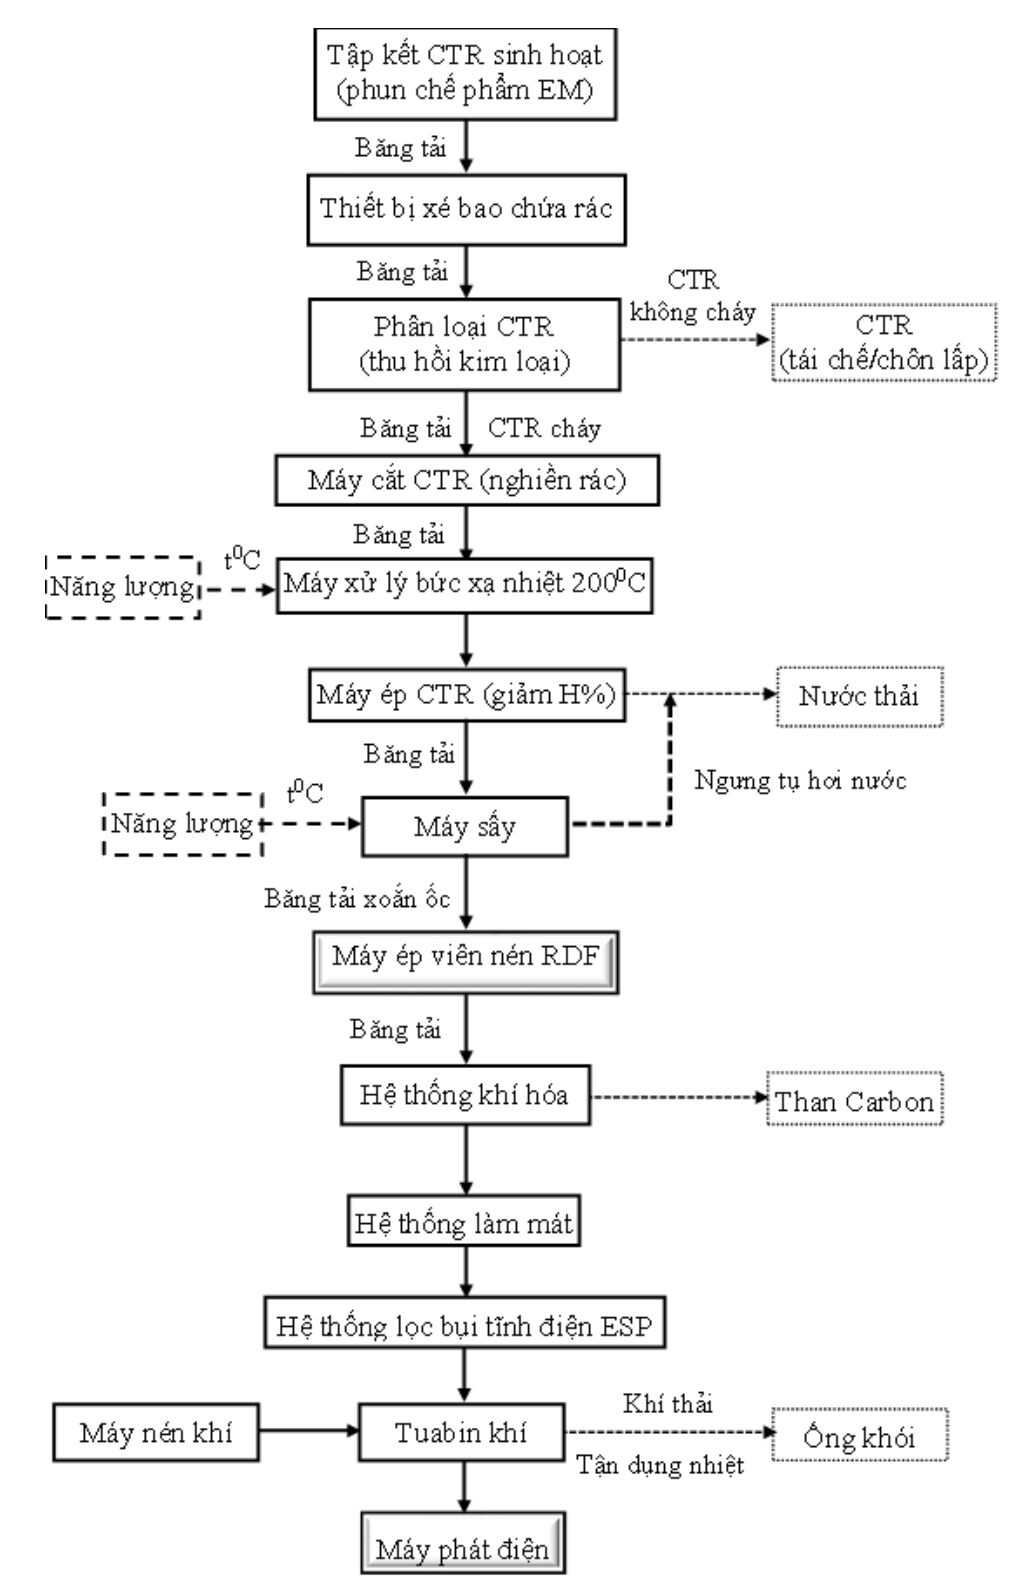
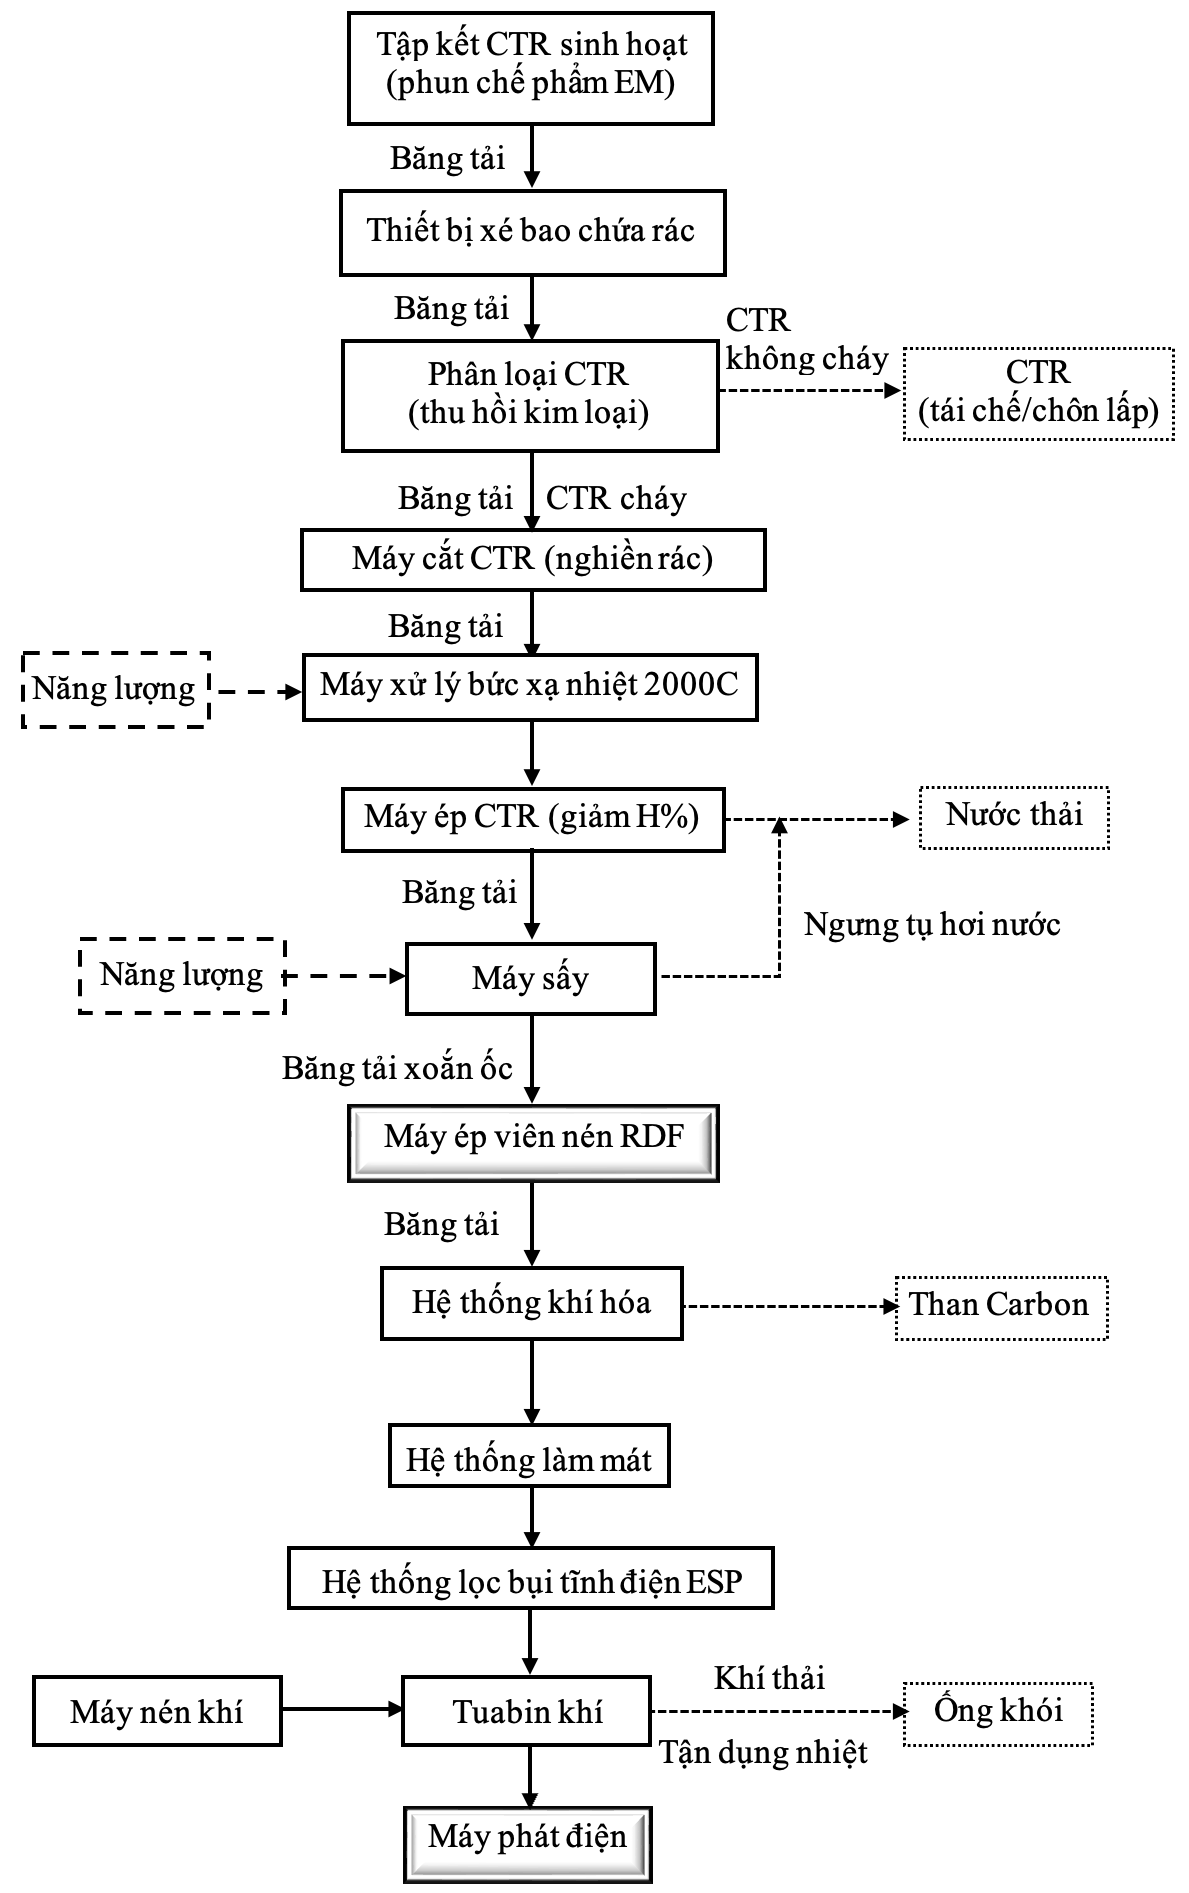
update 1906

Changed region(s): [[0.0, 0.0, 1.0, 1.0], [0.7337, 0.6771, 0.9477, 0.7079]]

diff --git a/main.tex b/main.tex
@@ -1,5 +1,5 @@
-\documentclass[a4paper,13pt,3p,oneside]{report}
-% \documentclass[a4paper,13pt,3p,twoside]{report}
+% \documentclass[a4paper,13pt,3p,oneside]{report}
+\documentclass[a4paper,13pt,3p,twoside]{report}
 
 
 % \usepackage{minted} % yêu cầu biên dịch với -shell-escape
@@ -16,6 +16,8 @@
 
 \usepackage{tikz} % Thư viện vẽ hình
 \usetikzlibrary{calc, shapes.geometric, arrows.meta, positioning, shadows} % Thêm các thư viện TikZ cần thiết
+% \usepackage{ulem}   % Cho \sout (gạch ngang chữ)
+% \usepackage{cancel} % Cho \cancel (gạch ngang biểu thức toán)
 \usepackage{pgfplots} % Vẽ biểu đồ
 \pgfplotsset{compat=1.18}
 \usepackage{pgf-pie} % Vẽ biểu đồ tròn
@@ -68,6 +70,7 @@
 
 \usepackage{listings} % Gói cho phép chèn code và định dạng code
 
+\usepackage{threeparttable}
 % --- CẤU HÌNH HIỂN THỊ CODE ---
 % ==== FONTS & UTF-8 (khuyên dùng XeLaTeX) ====
 % \usepackage{fontspec}           % BẬT nếu dùng XeLaTeX/LuaLaTeX
@@ -430,25 +433,19 @@
 \renewcommand{\sectionmark}[1]{}
 
 \newpage
-\label{chuong1}
-\subfile{Chuong/1_Chuong_1.tex} % Phần mở đầu
+\subfile{Chuong/1_Chuong_1.tex}
 
 \newpage
-% \pagestyle{fancy} % Áp dụng header và footer
-\label{chuong2}
 \subfile{Chuong/2_Chuong_2.tex}
 
 \newpage
-% \pagestyle{fancy} % Áp dụng header và footer
-\label{chuong3}
 \subfile{Chuong/3_Chuong_3.tex}
 
-% % Chương 4 cũ (QUẢN LÝ VẬN HÀNH) đã được gộp vào Chương 3
+\newpage
+\subfile{Chuong/4_Chuong_4.tex}
 
 \newpage
-% \pagestyle{fancy} % Áp dụng header và footer
-\label{chuong4}
-\subfile{Chuong/5_Chuong_5.tex} % KẾT LUẬN VÀ KIẾN NGHỊ (Chương 4 mới)
+\subfile{Chuong/5_Chuong_5.tex}
 
 % ===================================================
 

diff --git a/Chuong/1_Chuong_1.tex b/Chuong/1_Chuong_1.tex
@@ -12,6 +12,7 @@
 \definecolor{OtherGray}{HTML}{D3D3D3}     % Xám nhạt - Khác
 
 \chapter{TỔNG QUAN}
+\label{chuong1}
 
 \section{Hiện trạng chất thải rắn sinh hoạt tại Việt Nam}
 
@@ -604,7 +605,7 @@ Nhiệt phân là quá trình phân hủy nhiệt các vật liệu hữu cơ tr
 \label{fig:quy-trinh-nhiet-phan}
 \end{figure}
 
-Các công nghệ nhiệt phân được phân loại chủ yếu dựa trên điều kiện vận hành, bao gồm: nhiệt phân chậm (slow pyrolysis) với thời gian lưu dài, chủ yếu để tối đa hóa lượng than sinh học; nhiệt phân nhanh (fast pyrolysis) với tốc độ gia nhiệt rất cao (lên đến hàng nghìn độ/giây) và thời gian lưu hơi ngắn ($< 2$ giây), nhằm tối đa hóa hiệu suất thu hồi dầu nhiên liệu (có thể đạt 60$-$75\%); và nhiệt phân chớp nhoáng (flash pyrolysis) \cite{Bridgwater2012,Miandad2016}. Để chuyển hóa nhiên liệu viên nén RDF thành nhiên liệu phát điện, công nghệ nhiệt phân nhanh sử dụng lò phản ứng quay (rotary kiln) hoặc lò phản ứng trục vít (auger reactor) thường được ưu tiên ứng dụng nhờ khả năng đảo trộn liên tục và vận chuyển vật liệu có tính chất vật lý đa dạng \cite{Sharuddin2016}.
+Các công nghệ nhiệt phân được phân loại chủ yếu dựa trên điều kiện vận hành, bao gồm: nhiệt phân chậm (slow pyrolysis) với thời gian lưu dài, chủ yếu để tối đa hóa lượng than sinh học; nhiệt phân nhanh (fast pyrolysis) với tốc độ gia nhiệt rất cao (lên đến hàng nghìn độ/giây) và thời gian lưu hơi ngắn ($< 2$ giây), nhằm tối đa hóa hiệu suất thu hồi dầu nhiên liệu (có thể đạt 60$-$75\%); và nhiệt phân siêu nhanh (flash pyrolysis) \cite{Bridgwater2012,Miandad2016}. Để chuyển hóa nhiên liệu viên nén RDF thành nhiên liệu phát điện, công nghệ nhiệt phân nhanh sử dụng lò phản ứng quay (rotary kiln) hoặc lò phản ứng trục vít (auger reactor) thường được ưu tiên ứng dụng nhờ khả năng đảo trộn liên tục và vận chuyển vật liệu có tính chất vật lý đa dạng \cite{Sharuddin2016}.
 
 Ưu điểm nổi bật của nhiệt phân so với khí hóa là tạo ra sản phẩm dầu nhiệt phân - một dạng nhiên liệu lỏng có ý nghĩa đặc biệt. Dầu nhiệt phân có ưu thế là dễ dàng lưu trữ, vận chuyển, lấy mẫu kiểm tra chất lượng trước khi sử dụng \cite{Williams2007}. Điều này cho phép tách biệt quá trình chuyển hóa rác (vận hành liên tục) khỏi quá trình phát điện (có thể vận hành theo ca hoặc theo giờ cao điểm). Dầu nhiệt phân sau khi được tinh chế có thể sử dụng làm nhiên liệu thay thế hoặc phối trộn với nhiên liệu truyền thống cho lò hơi, động cơ diesel. Bên cạnh đó, khí không ngưng sinh ra (gồm \ce{CO}, \ce{H2}, \ce{CH4} và các hydrocarbon nhẹ \ce{C2}-\ce{C4}) có nhiệt trị khá cao, thường được hồi lưu đốt để cung cấp nhiệt năng duy trì phản ứng nhiệt phân, giúp hệ thống có khả năng tự cân bằng năng lượng \cite{Sharuddin2016}.
 
@@ -622,7 +623,7 @@ Châu Á là thị trường phát triển nhanh nhất của công nghệ đố
 
 Tại Việt Nam, công nghệ đốt rác phát điện đang trong giai đoạn khởi đầu phát triển nhưng có tiềm năng rất lớn. Trong bối cảnh các bãi chôn lấp tại các thành phố lớn đang dần quá tải và áp lực về bảo vệ môi trường ngày càng tăng, Chính phủ đã khuyến khích phát triển công nghệ đốt rác thu hồi năng lượng thông qua các chính sách ưu đãi. Một số dự án nhà máy điện rác đã được triển khai và đưa vào vận hành tại Hà Nội, Cần Thơ và nhiều dự án khác đang trong giai đoạn xây dựng.
 
-Xu hướng công nghệ hiện đại đang hướng tới hiệu suất cao hơn, phát thải thấp hơn và tích hợp công nghệ số. Với đốt trực tiếp, các nhà máy thế hệ mới áp dụng thông số hơi cao hơn (áp suất 80$-$100 bar, nhiệt độ 450$-$500$^\circ\mathrm{C}$), giúp nâng hiệu suất phát điện lên 25$-$30\% so với 18$-$22\% của các nhà máy cũ. Với khí hóa và nhiệt phân, trọng tâm phát triển hiện nay là kiểm soát tạp chất trong khí nhiên liệu, cải thiện hệ ngưng tụ sản phẩm, nâng cao hiệu suất chuyển hóa và mở rộng khả năng xử lý các loại nhiên liệu thải đa dạng. Hai công nghệ này tạo ra sản phẩm trung gian có giá trị năng lượng cao, phù hợp cho các hệ thống phát điện hoặc làm nguyên liệu đầu vào cho các quy trình chế biến tiếp theo, do đó sẽ được phân tích sâu hơn trong Chương~2.
+Xu hướng công nghệ hiện đại đang hướng tới hiệu suất cao hơn, phát thải thấp hơn và tích hợp công nghệ số. Với đốt trực tiếp, các nhà máy thế hệ mới áp dụng thông số hơi cao hơn (áp suất 80$-$100 bar, nhiệt độ 450$-$500$^\circ\mathrm{C}$), giúp nâng hiệu suất phát điện lên 25$-$30\% so với 18$-$22\% của các nhà máy cũ. Với khí hóa và nhiệt phân, trọng tâm phát triển hiện nay là kiểm soát tạp chất trong khí nhiên liệu, cải thiện hệ ngưng tụ sản phẩm, nâng cao hiệu suất chuyển hóa và mở rộng khả năng xử lý các loại nhiên liệu thải đa dạng. Hai công nghệ này tạo ra sản phẩm trung gian có giá trị năng lượng cao, phù hợp cho các hệ thống phát điện hoặc làm nguyên liệu đầu vào cho các quy trình chế biến tiếp theo, do đó sẽ được phân tích sâu hơn trong Chương \ref{chuong2}.
 
 \section{Bối cảnh rác thải tại Hội An và định hướng tiếp cận}
 
@@ -630,7 +631,7 @@ Hội An là một đô thị du lịch nổi tiếng nhưng đang phải đối
 
 Việc lựa chọn công nghệ xử lý CTRSH không thể dựa trên một tiêu chí đơn lẻ, mà phải xét đồng thời đặc tính rác, quy mô dự án, quỹ đất, khả năng đầu tư, yêu cầu môi trường và năng lực vận hành địa phương. Xu hướng phù hợp là quản lý chất thải rắn tích hợp.\footnote{Quản lý chất thải rắn tích hợp (Integrated Solid Waste Management - ISWM) là phương pháp quản lý chất thải toàn diện, kết hợp nhiều công nghệ xử lý khác nhau nhằm tối ưu hóa hiệu quả kinh tế, môi trường và xã hội.}, trong đó phân loại và tái chế được ưu tiên để thu hồi vật liệu, xử lý sinh học được áp dụng cho phần hữu cơ phù hợp, xử lý nhiệt được dùng cho phần cháy được còn lại và chôn lấp chỉ giữ vai trò tiếp nhận tro xỉ hoặc phần không thể xử lý tiếp. Theo logic này, đồ án không đặt vấn đề lựa chọn một công nghệ duy nhất cho toàn bộ dòng rác hỗn hợp, mà tập trung tìm công nghệ chuyển hóa năng lượng phù hợp nhất cho phần RDF.\footnote{Refuse-Derived Fuel (Nhiên liệu từ rác thải) là loại nhiên liệu được sản xuất từ các thành phần cháy được của chất thải rắn sinh hoạt sau khi loại bỏ các tạp chất không cháy, sấy khô và nghiền hoặc tạo viên.} sau tiền xử lý.
 
-Từ vòng so sánh thứ nhất, chôn lấp, tái chế và compost đều có vai trò nhất định nhưng không giải quyết triệt để phần rác cháy được có giá trị năng lượng. Do đó, trọng tâm tiếp theo của đồ án là nhóm công nghệ xử lý nhiệt. Trong nhóm này, đốt trực tiếp là công nghệ đã trưởng thành nhất để phát điện quy mô lớn; khí hóa và nhiệt phân là hai hướng chuyển hóa nhiệt tiên tiến hơn vì tạo ra sản phẩm trung gian là khí nhiên liệu hoặc dầu nhiên liệu. Việc phân tích sâu hai hướng sau cùng với cơ sở lý thuyết, luận chứng lựa chọn công nghệ và đề xuất phương án cụ thể cho dự án quy mô vừa tại Hội An được trình bày chi tiết trong Chương~2.
+Từ vòng so sánh thứ nhất, chôn lấp, tái chế và compost đều có vai trò nhất định nhưng không giải quyết triệt để phần rác cháy được có giá trị năng lượng. Do đó, trọng tâm tiếp theo của đồ án là nhóm công nghệ xử lý nhiệt. Trong nhóm này, đốt trực tiếp là công nghệ đã trưởng thành nhất để phát điện quy mô lớn; khí hóa và nhiệt phân là hai hướng chuyển hóa nhiệt tiên tiến hơn vì tạo ra sản phẩm trung gian là khí nhiên liệu hoặc dầu nhiên liệu. Việc phân tích sâu hai hướng sau cùng với cơ sở lý thuyết, luận chứng lựa chọn công nghệ và đề xuất phương án cụ thể cho dự án quy mô vừa tại Hội An được trình bày chi tiết trong Chương \ref{chuong2}.
 
 \subsection{Đặc trưng dòng rác tại Hội An}
 
@@ -770,7 +771,7 @@ Tổng coliform & $\leq 3.000/5.000$ MPN/100 mL \\
 
 \section{Tóm tắt nội dung chương}
 
-Chương 1 đã trình bày bức tranh tổng quan về chất thải rắn sinh hoạt tại Việt Nam với các đặc tính chủ yếu (độ ẩm cao, tỷ lệ hữu cơ lớn, nhiệt trị thấp), sản lượng gia tăng nhanh chóng theo đô thị hóa, thực trạng quản lý và xử lý (chủ yếu là chôn lấp), các tác động môi trường và khung pháp lý hiện hành. Đồng thời, chương cũng giới thiệu tổng quan bốn nhóm công nghệ xử lý CTRSH cùng ba hướng xử lý nhiệt chính (đốt trực tiếp, khí hóa, nhiệt phân), làm cơ sở cho việc phân tích sâu hơn về lựa chọn công nghệ phù hợp với đặc trưng dòng rác Hội An trong Chương~2.
+Chương 1 đã trình bày bức tranh tổng quan về chất thải rắn sinh hoạt tại Việt Nam với các đặc tính chủ yếu (độ ẩm cao, tỷ lệ hữu cơ lớn, nhiệt trị thấp), sản lượng gia tăng nhanh chóng theo đô thị hóa, thực trạng quản lý và xử lý (chủ yếu là chôn lấp), các tác động môi trường và khung pháp lý hiện hành. Đồng thời, chương cũng giới thiệu tổng quan bốn nhóm công nghệ xử lý CTRSH cùng ba hướng xử lý nhiệt chính (đốt trực tiếp, khí hóa, nhiệt phân), làm cơ sở cho việc phân tích sâu hơn về lựa chọn công nghệ phù hợp với đặc trưng dòng rác Hội An trong Chương \ref{chuong2}.
 
 \begin{enumerate}
   \item Hiện trạng CTRSH tại Việt Nam cho thấy tỷ lệ hữu cơ cao (60$\%$) và độ ẩm lớn (50$-$70$\%$) là đặc điểm chi phối mọi lựa chọn công nghệ.
@@ -861,13 +862,11 @@ Phương pháp tiếp cận của đồ án là phân tích, luận chứng và 
 \end{sloppypar}
 
 \begin{sloppypar}
-Nội dung chi tiết về cơ sở lý thuyết, phân tích so sánh, luận chứng lựa chọn công nghệ nhiệt phân và thiết kế sơ bộ dây chuyền công nghệ được trình bày trong Chương~2.
+Nội dung chi tiết về cơ sở lý thuyết, phân tích so sánh, luận chứng lựa chọn công nghệ nhiệt phân và thiết kế sơ bộ dây chuyền công nghệ được trình bày trong Chương \ref{chuong2}.
 \end{sloppypar}
 
-\section{Kết luận chương 1}
+\section*{Kết luận chương 1}
 
-Chương 1 đã trình bày tổng quan về chất thải rắn sinh hoạt tại Việt Nam với các đặc tính chủ yếu, sản lượng gia tăng nhanh chóng theo đô thị hóa, thực trạng quản lý (chủ yếu là chôn lấp), tác động môi trường và khung pháp lý hiện hành. Chương cũng giới thiệu tổng quan bốn nhóm công nghệ xử lý CTRSH (chôn lấp, tái chế, compost, xử lý nhiệt) và ba hướng xử lý nhiệt chính (đốt trực tiếp, khí hóa, nhiệt phân), làm cơ sở cho việc phân tích sâu hơn về lựa chọn công nghệ phù hợp với đặc trưng dòng rác Hội An trong Chương~2.
-
-Đặc trưng dòng rác Hội An (độ ẩm 56,3$\%$, tỷ lệ hữu cơ 62,56$\%$, tỷ lệ nhựa 10,16$\%$, biến động theo mùa du lịch) đặt ra những yêu cầu cụ thể đối với công nghệ xử lý nhiệt: cần chịu được dao động độ ẩm và thành phần, không yêu cầu RDF quá đồng nhất, sản phẩm trung gian có thể lưu trữ và kiểm soát, hệ thống làm sạch khí phù hợp với quy mô vừa. Những yêu cầu này là điểm xuất phát cho việc phân tích và lựa chọn công nghệ được trình bày trong Chương~2.
+Chương 1 đã trình bày hiện trạng CTRSH tại Việt Nam, thực trạng quản lý và tác động môi trường, cùng tổng quan các nhóm công nghệ xử lý nhiệt (đốt trực tiếp, khí hóa, nhiệt phân) làm cơ sở cho phân tích lựa chọn công nghệ trong Chương \ref{chuong2}.
 
 \end{document}

diff --git a/Chuong/3_Chuong_3.tex b/Chuong/3_Chuong_3.tex
@@ -3,30 +3,26 @@
 \documentclass[../main.tex]{subfiles}
 \begin{document}
 
-\chapter{TÍNH TOÁN THIẾT KẾ HỆ THỐNG NHIỆT PHÂN PHÁT ĐIỆN}
+\chapter{TÍNH TOÁN THIẾT KẾ HỆ THỐNG}
+\label{chuong3}
 
 %%=============================================================
 \section{Cơ sở tính toán}
 %%=============================================================
 
-Chương~2 đã phân tích và lựa chọn phương án công nghệ nhiệt phân -- chưng cất dầu -- phát điện diesel làm giải pháp xử lý CTRSH đô thị. Chương này thực hiện bước tiếp theo: cân bằng vật chất và năng lượng sơ bộ, thiết kế sơ bộ các thiết bị chính và kiểm tra tính hợp lý của phương án. Đây là bước tính toán ở cấp \emph{basic engineering}, nhằm lượng hóa dòng vật chất, năng lượng và thông số thiết bị trước khi đi vào thiết kế chi tiết. Toàn bộ tính toán được trình bày ở dạng tổng quát với các biến ký hiệu ($G_0$, $Q_{\text{RDF}}^r$, $y_{\text{dầu}}$, $y_{\text{khí}}$, $y_{\text{than}}$, $\eta$); người đọc có thể thay bằng số liệu cụ thể của từng dự án để thu được kết quả riêng. Các tỷ lệ sản phẩm nhiệt phân và hiệu suất tổng thể được đối chiếu với các nghiên cứu thực nghiệm trên nguồn nguyên liệu tương đồng \cite{Sharuddin2016,Williams2007,Miandad2016,Arena2012}.
-
 \subsection{Nguyên tắc tính toán cân bằng}
 
-Toàn bộ tính toán cân bằng vật chất được xây dựng trên nguyên tắc bảo toàn khối lượng, hay còn gọi là cân bằng vật chất tổng thể (\emph{overall mass balance}). Theo nguyên tắc này, tổng khối lượng các dòng đầu vào bằng tổng khối lượng các dòng đầu ra tại mỗi ranh giới hệ thống được xét. Cụ thể:
-
+Toàn bộ tính toán cân bằng vật chất được xây dựng trên nguyên tắc bảo toàn khối lượng. Theo đó, tổng khối lượng các dòng đầu vào bằng tổng khối lượng các dòng đầu ra tại mỗi ranh giới hệ thống được xét. Cụ thể:
 \begin{equation}
   \sum m_{\text{vào}} = \sum m_{\text{ra}} + \Delta m_{\text{tích lũy}}
 \end{equation}
 
 Trong điều kiện vận hành ổn định, lượng tích lũy trong hệ thống $\Delta m_{\text{tích lũy}} = 0$, tức là khối lượng ra bằng khối lượng vào. Áp dụng cho từng thiết bị hay khối công đoạn, phương trình bảo toàn khối lượng cụ thể hóa thành:
-
 \begin{equation}
   m_{\text{CTRSH}} = m_{\text{RDF}} + m_{\text{không cháy}} + m_{\text{nước thải, ép}} + m_{\text{hơi nước, bức xạ}} + m_{\text{hơi nước, sấy}} + m_{\text{hao hụt}}
 \end{equation}
 
 Phương trình trên là cơ sở cho toàn bộ tính toán cân bằng trong Mục~\ref{sec:can-bang-tien-xu-ly}. Khi áp dụng cho khối nhiệt phân, phương trình tương tự được viết lại:
-
 \begin{equation}
   m_{\text{RDF}} = m_{\text{dầu thô}} + m_{\text{khí không ngưng}} + m_{\text{than carbon}}
 \end{equation}
@@ -955,7 +951,7 @@ Danh mục thiết bị của nhà máy được tổ chức theo các khối ch
 
 \subsection{Cấu hình mô-đun lò nhiệt phân quay}
 
-Lò nhiệt phân quay (rotary kiln pyrolyzer) là thiết bị trung tâm của toàn bộ chuỗi công nghệ. Để đạt công suất $K_{\text{RDF,lò}} \cdot G_0$ tấn RDF/ngày, nhà máy sử dụng cấu hình nhiều mô-đun song song. Mỗi mô-đun lò nhiệt phân có công suất xử lý khoảng 5--20\,tấn RDF/mẻ (24\,giờ). Số lượng mô-đun vận hành song song được tính theo $N_{\text{mô-đun}} = \lceil K_{\text{RDF,lò}} \cdot G_0 / G_{\text{mô-đun}} \rceil$ cộng thêm một mô-đun dự phòng luân phiên bảo dưỡng, cấu hình chi tiết đã nêu ở Chương~2.
+Lò nhiệt phân quay (rotary kiln pyrolyzer) là thiết bị trung tâm của toàn bộ chuỗi công nghệ. Để đạt công suất $K_{\text{RDF,lò}} \cdot G_0$ tấn RDF/ngày, nhà máy sử dụng cấu hình nhiều mô-đun song song. Mỗi mô-đun lò nhiệt phân có công suất xử lý khoảng 5--20\,tấn RDF/mẻ (24\,giờ). Số lượng mô-đun vận hành song song được tính theo $N_{\text{mô-đun}} = \lceil K_{\text{RDF,lò}} \cdot G_0 / G_{\text{mô-đun}} \rceil$ cộng thêm một mô-đun dự phòng luân phiên bảo dưỡng, cấu hình chi tiết đã nêu ở Chương \ref{chuong2}.
 
 Thông số kỹ thuật điển hình của một mô-đun lò nhiệt phân quay trong dự án này bao gồm: đường kính trong 1,5--2,0 m và chiều dài thân lò 5--8 m; tốc độ quay 0,5--2 vòng/phút, điều chỉnh bằng biến tần; nhiệt độ vận hành 350--500$^\circ\mathrm{C}$, kiểm soát bằng nhiệt điện trở Pt100; vật liệu thân lò bằng thép hợp kim 310S chịu nhiệt, có lớp cách nhiệt bên ngoài; áp suất vận hành ở mức âm nhẹ ($-5$ đến $-20$\,Pa so với khí quyển) để ngăn rò rỉ khí ra ngoài, duy trì bằng quạt hút; buồng đốt ngoài đặt bên dưới thân lò sử dụng khí không ngưng làm nhiên liệu, nhiệt truyền gián tiếp qua thành lò nhằm tránh pha loãng sản phẩm nhiệt phân bởi khí đốt; hệ thống cấp liệu gồm vít tải xoắn cấp RDF vào đầu lò với tốc độ điều chỉnh được theo tín hiệu cân liệu; hệ thống tháo than ở đầu tháo lò cho phép than carbon nóng (khoảng 300$^\circ\mathrm{C}$) được tháo ra qua vít tải tháo liệu và làm mát trong thiết bị làm mát than xoắn ốc (screw cooler) trước khi đưa vào thùng chứa kín.
 
@@ -1450,7 +1446,7 @@ Sản lượng điện ròng (MWh/năm) & 15.943 & $\sim 15.943$ & $<0{,}1\%$ \\
 
 Sai lệch giữa kết quả tính toán của đồ án và hồ sơ dự án là rất nhỏ (dưới 1\% đối với hầu hết các chỉ tiêu), xác nhận tính nhất quán của phương pháp tính toán và sự đúng đắn của các giả thiết được áp dụng.
 
-Phương án công nghệ nhiệt phân -- chưng cất dầu -- phát điện diesel cho nhà máy xử lý CTRSH quy mô vừa là khả thi về mặt kỹ thuật theo các tính toán cân bằng sơ bộ. Các kết quả ở dạng tổng quát tương đồng với dữ liệu từ nghiên cứu thực nghiệm trên nguyên liệu cùng loại \cite{Sharuddin2016,Williams2007,Miandad2016,Arena2012}. Các kết luận tổng hợp và kiến nghị về phương án được trình bày ở Chương~4.
+Phương án công nghệ nhiệt phân -- chưng cất dầu -- phát điện diesel cho nhà máy xử lý CTRSH quy mô vừa là khả thi về mặt kỹ thuật theo các tính toán cân bằng sơ bộ. Các kết quả ở dạng tổng quát tương đồng với dữ liệu từ nghiên cứu thực nghiệm trên nguyên liệu cùng loại \cite{Sharuddin2016,Williams2007,Miandad2016,Arena2012}. Các kết luận tổng hợp và kiến nghị về phương án được trình bày ở Chương \ref{chuong4}.
 
 %%=============================================================
 \section{Tính toán cụ thể cho 5 mô-đun nhiệt phân}

diff --git a/Chuong/5_Chuong_5.tex b/Chuong/5_Chuong_5.tex
@@ -4,6 +4,7 @@
 \begin{document}
 
 \chapter{KẾT LUẬN VÀ KIẾN NGHỊ}
+\label{chuong5}
 
 \section{Kết luận}
 